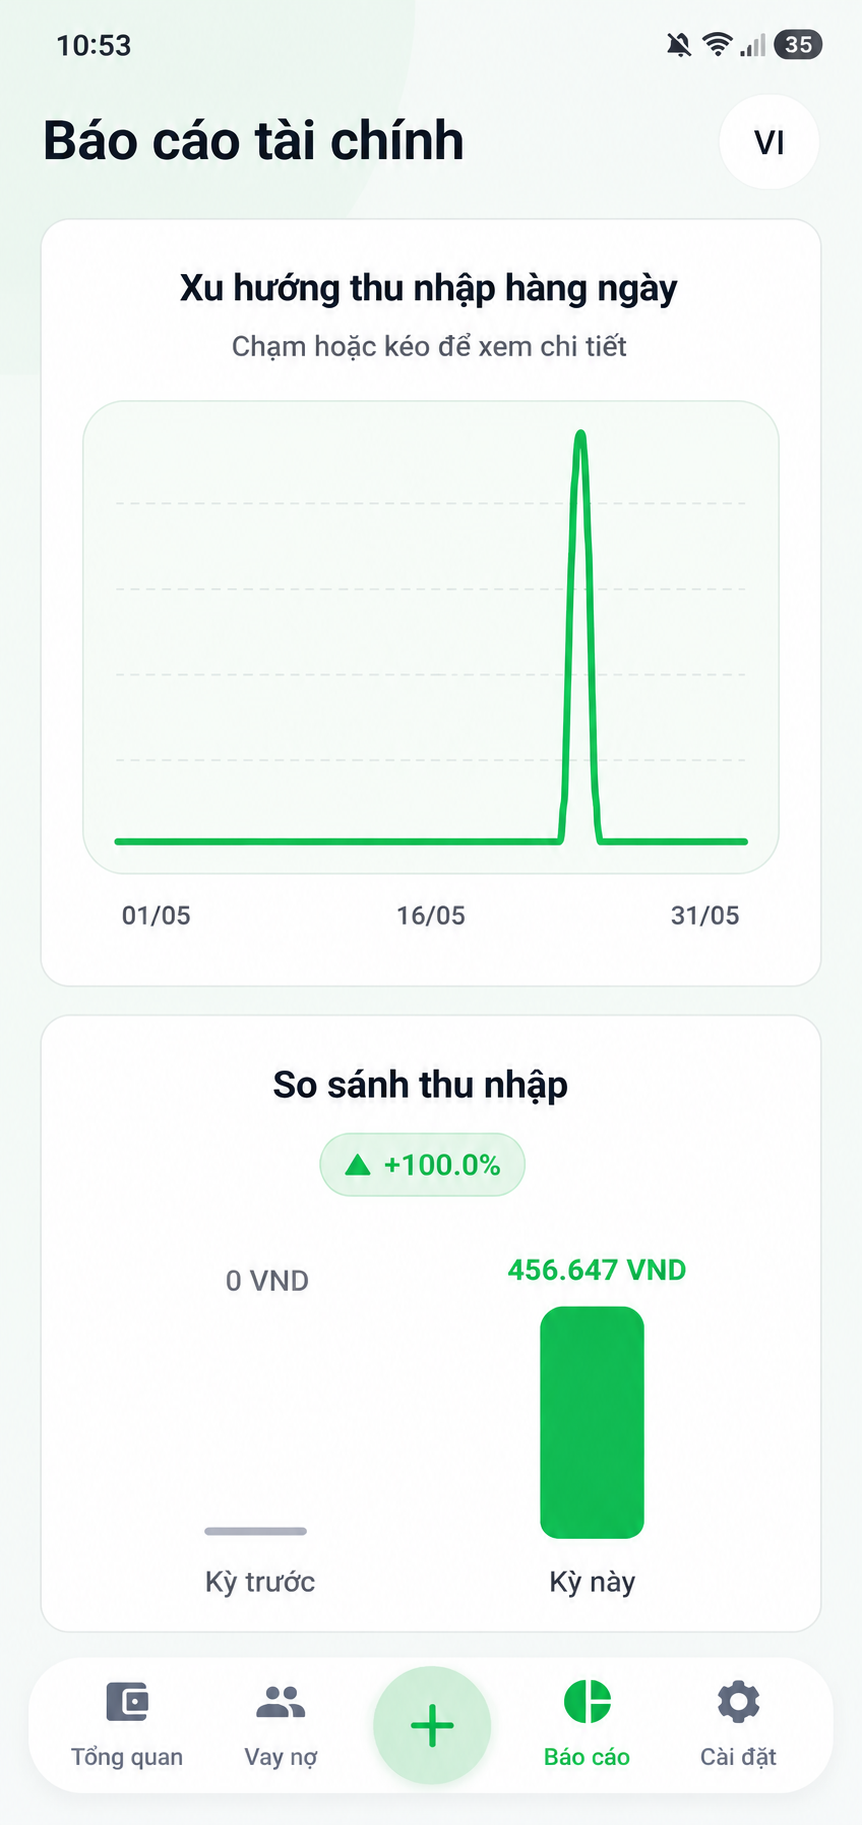
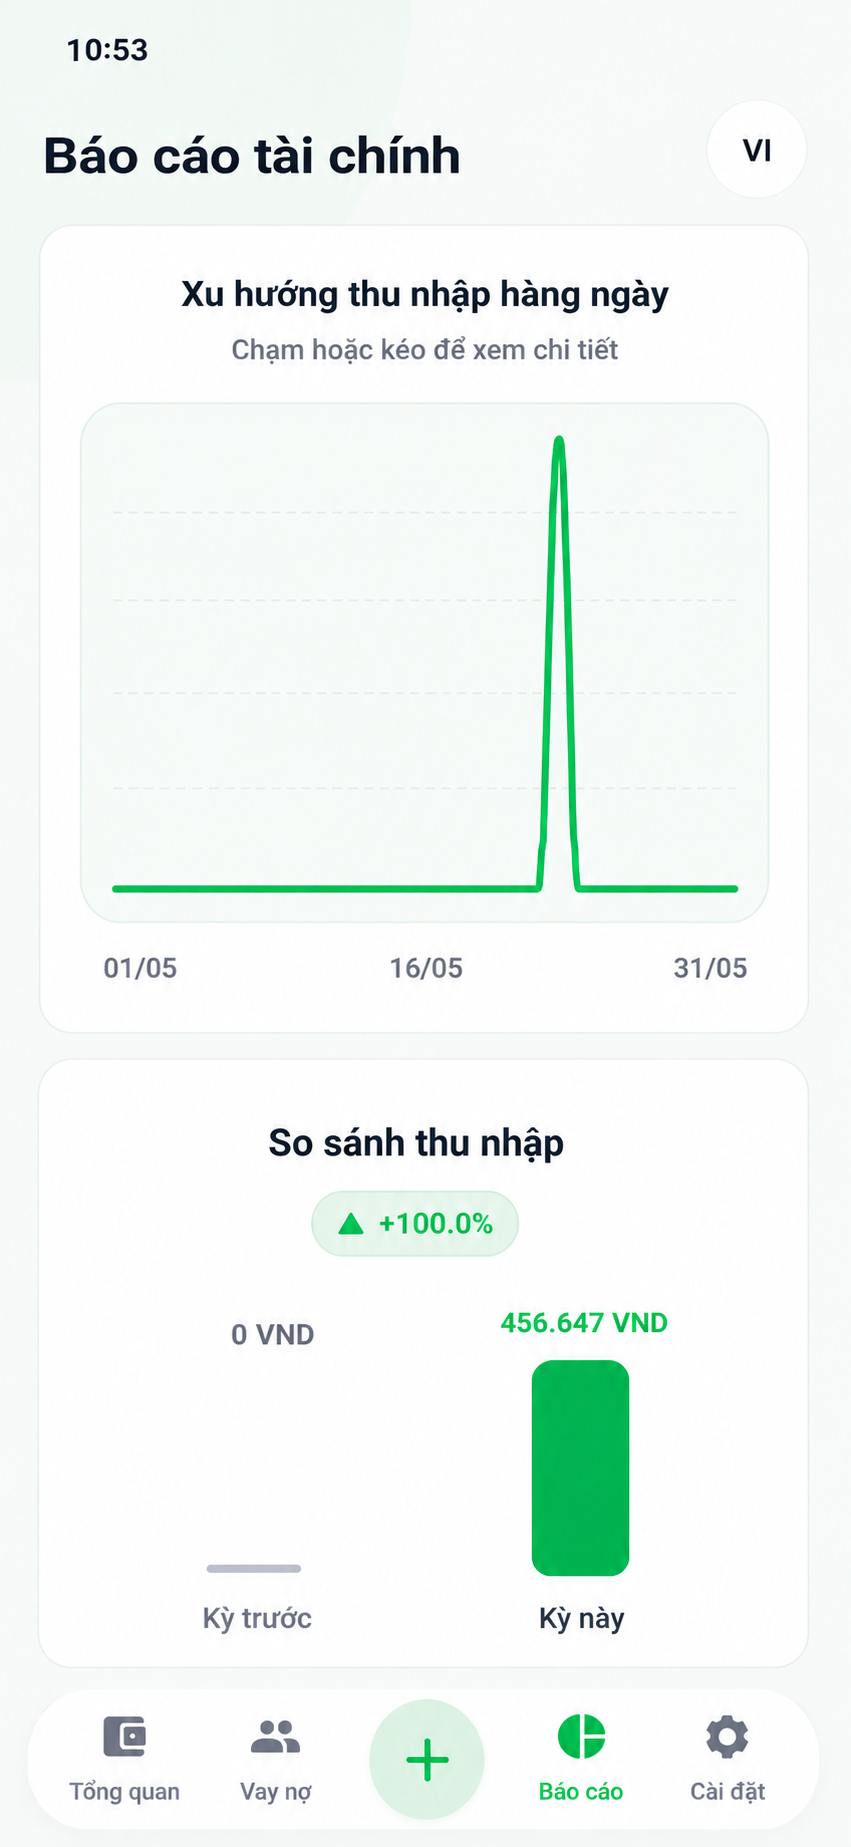
Fix release notes in javascript dictionary

diff --git a/Website/assets/js/main.js b/Website/assets/js/main.js
@@ -1,4 +1,4 @@
-document.addEventListener("DOMContentLoaded", () => {
+document.addEventListener("DOMContentLoaded", () => {
     document.body.classList.add('js-enabled');
     
     // === 1. XỬ LÝ THEME ===
@@ -55,11 +55,11 @@
             devSupport: "Hỗ Trợ Nhanh",
             guaranteeTitle: "Dữ liệu lưu cục bộ trên thiết bị",
             guaranteeDesc: "KAT Budget không yêu cầu tài khoản và không vận hành máy chủ đồng bộ dữ liệu. Số dư, giao dịch, ngân sách và khoản vay được lưu trong bộ nhớ ứng dụng trên thiết bị; dữ liệu chỉ rời thiết bị khi bạn chủ động xuất, sao lưu hoặc chia sẻ file.",
-            releaseKicker: "Phiên bản 3.0.0",
+            releaseKicker: "Phiên bản 1.0.0",
             releaseTitle: "Cập nhật mới có gì?",
-            releaseDesc: "Bản cập nhật này tập trung cải thiện UI/UX và bổ sung widget xem nhanh.",
-            releaseItem1: "Cải thiện UI/UX để giao diện gọn và dễ thao tác hơn.",
-            releaseItem2: "Thêm widget xem nhanh thông tin ngay từ màn hình chính.",
+            releaseDesc: "Bản cập nhật này tập trung cải tiến giao diện và sửa những lỗi từ bản beta.",
+            releaseItem1: "UI/UX hiện đại hơn.",
+            releaseItem2: "Sửa lỗi từ bản thử nghiệm.",
             archiveKicker: "Lưu trữ APK",
             archiveTitle: "Các phiên bản cũ",
             archiveDesc: "Bạn nên dùng bản mới nhất để nhận đầy đủ bản sửa lỗi và cải thiện giao diện. Các phiên bản cũ được lưu lại để đối chiếu hoặc cài lại khi thật sự cần.",
@@ -164,11 +164,11 @@
             devSupport: "Quick Support",
             guaranteeTitle: "Data stays locally on your device",
             guaranteeDesc: "KAT Budget does not require an account and does not operate a data-sync server. Balances, transactions, budgets, and loans are stored in the app storage on your device; data only leaves the device when you choose to export, back up, or share a file.",
-            releaseKicker: "Version 3.0.0",
+            releaseKicker: "Version 1.0.0",
             releaseTitle: "What's new?",
-            releaseDesc: "This update focuses on UI/UX improvements and a quick-view widget.",
-            releaseItem1: "Improved UI/UX for a cleaner, easier interface.",
-            releaseItem2: "Added a quick-view widget for the home screen.",
+            releaseDesc: "This update focuses on interface improvements and bug fixes from the beta version.",
+            releaseItem1: "More modern UI/UX.",
+            releaseItem2: "Fixed bugs from the beta version.",
             archiveKicker: "APK archive",
             archiveTitle: "Older versions",
             archiveDesc: "We recommend using the latest version for fixes and interface improvements. Older versions are kept for reference or reinstalling only when needed.",